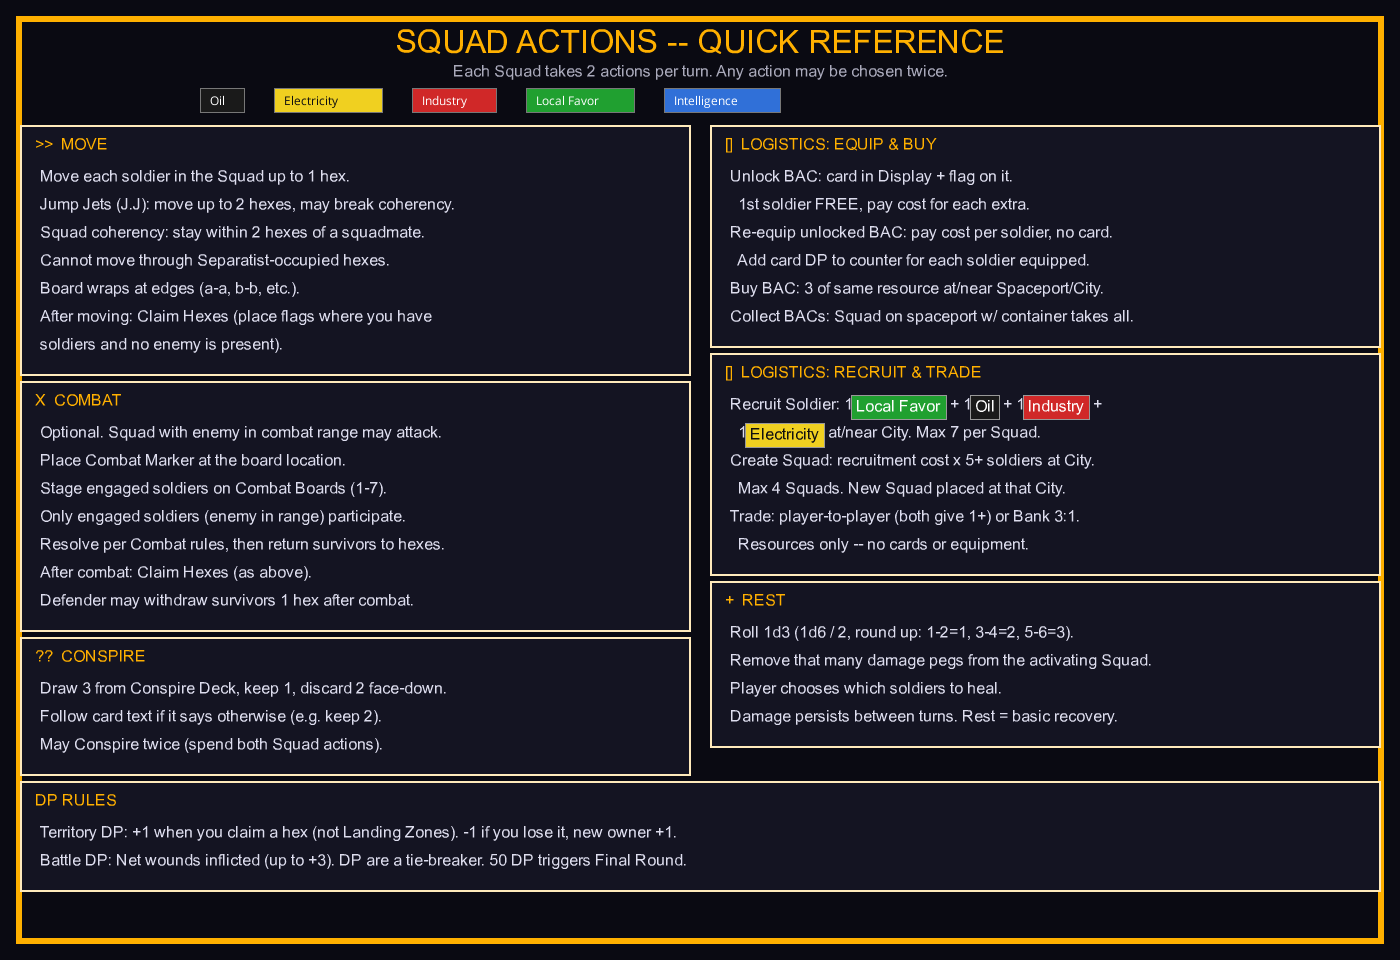
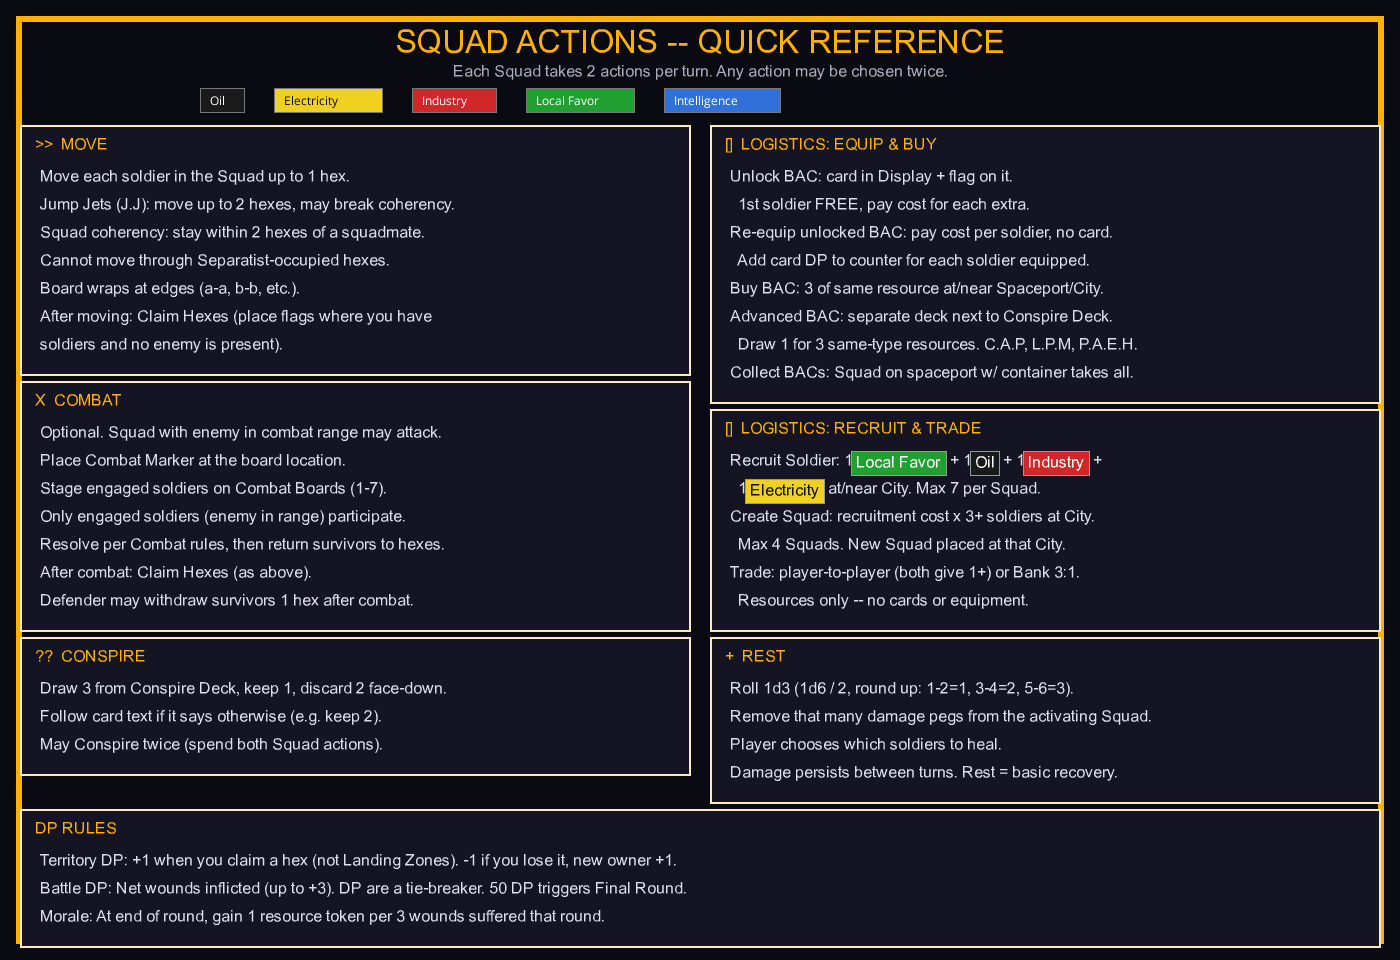
tts: update in-game manual and quick reference board with current rules
Amp-Thread-ID: https://ampcode.com/threads/T-019f9e19-ba55-77d0-a537-907eecdfc6bb

diff --git a/tts/generate-save.js b/tts/generate-save.js
@@ -1643,7 +1643,7 @@ objects.push(dealBacsButton);
 // rules replaces the old Quick Reference PDF book. The full rulebook
 // remains as a Custom_PDF that players right-click to Open.
 const RULEBOOK_PDF_URL = "https://raw.githubusercontent.com/YossiTurgeman/WarHams/main/design/WARHAMS-Rulebook.pdf";
-const EXTRA_ACTIONS_BOARD_URL = `${SOLDIER_BASE}/extra-actions-board.png?r4`;
+const EXTRA_ACTIONS_BOARD_URL = `${SOLDIER_BASE}/extra-actions-board.png?r5`;
 
 // Extra Actions reference board — locked Custom_Tile south of the
 // combat zone, visible to all players without clicking.
@@ -2089,13 +2089,20 @@ const saveFile = {
         "1. Place hex tiles manually to build the planet board",
         "2. Each player takes a soldier bag and Control Flag bag (10 minis = 2 squads of 5; squad/soldier numbers printed on bases)",
         "3. Place 10 soldiers (2 squads of 5) on starting hexes — two Control Flags are pre-staged beside your Squads for your Landing Zones",
-        "4. Deal 3 BAC cards each, then draft (pick 1, pass 2 left, etc.)",
+        "4. Deal 3 BAC cards each from the Spaceport Deck, then draft (pick 1, pass 2 left, etc.)",
         "5. Shuffle the Conspire Deck",
-        "6. Advanced BAC Deck (C.A.P, L.P.M, P.A.E.H) is separate — unlock prerequisite BAC first to access",
+        "6. Advanced BAC Deck (C.A.P, L.P.M, P.A.E.H) is separate — face-down next to Conspire Deck. Draw from it by spending 3 same-type resources at a Spaceport/City. Prerequisite BAC must be unlocked to equip.",
+        "", "SQUAD ACTIONS (2 per Squad per turn):",
+        "- Move: Move Squad 1 hex (2 with Jump Jets)",
+        "- Combat: Engage enemy Squad within 1 hex",
+        "- Logistics: Purchase/Equip/Trade BACs, Recruit soldiers, Create new Squads (min 3)",
+        "- Conspire: Draw a Conspire Card",
+        "- Rest: Roll 1d3, heal that many wounds in the Squad",
         "", "VICTORY CONDITIONS:",
         "- Spaceport Domination: 5/6 spaceports (2p) or 4/6 (3-4p)",
         "- Military Supremacy: More than 2x the soldiers of the next largest army",
         "- Dominance: 50 DP from equipped BACs + Battle Victory DP + Territory DP + Bunker DP",
+        "", "MORALE COMPENSATION: At end of round, gain 1 resource token per 3 wounds suffered that round",
     ].join('\n'),
     Rules: "",
     PlayerTurn: "",

diff --git a/tts/generate-extra-actions-board.js b/tts/generate-extra-actions-board.js
@@ -185,6 +185,8 @@ const actions = [
             "Re-equip unlocked BAC: pay cost per soldier, no card.",
             "  Add card DP to counter for each soldier equipped.",
             "Buy BAC: 3 of same resource at/near Spaceport/City.",
+            "Advanced BAC: separate deck next to Conspire Deck.",
+            "  Draw 1 for 3 same-type resources. C.A.P, L.P.M, P.A.E.H.",
             "Collect BACs: Squad on spaceport w/ container takes all.",
         ],
     },
@@ -194,7 +196,7 @@ const actions = [
         lines: [
             "Recruit Soldier: 1 Local Favor + 1 Oil + 1 Industry +",
             "  1 Electricity at/near City. Max 7 per Squad.",
-            "Create Squad: recruitment cost x 5+ soldiers at City.",
+            "Create Squad: recruitment cost x 3+ soldiers at City.",
             "  Max 4 Squads. New Squad placed at that City.",
             "Trade: player-to-player (both give 1+) or Bank 3:1.",
             "  Resources only -- no cards or equipment.",
@@ -225,6 +227,7 @@ const actions = [
 const footerLines = [
     "Territory DP: +1 when you claim a hex (not Landing Zones). -1 if you lose it, new owner +1.",
     "Battle DP: Net wounds inflicted (up to +3). DP are a tie-breaker. 50 DP triggers Final Round.",
+    "Morale: At end of round, gain 1 resource token per 3 wounds suffered that round.",
 ];
 
 (async () => {
